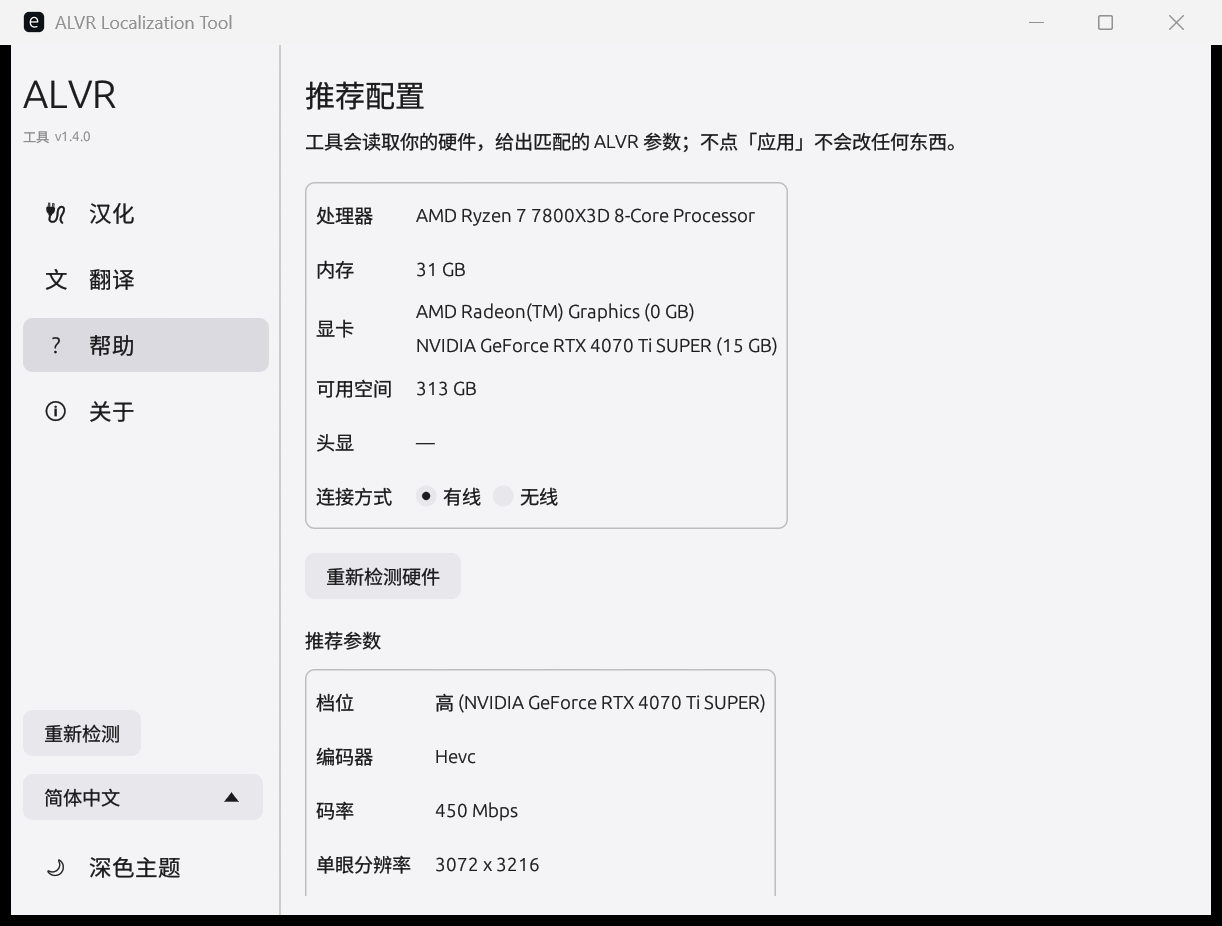
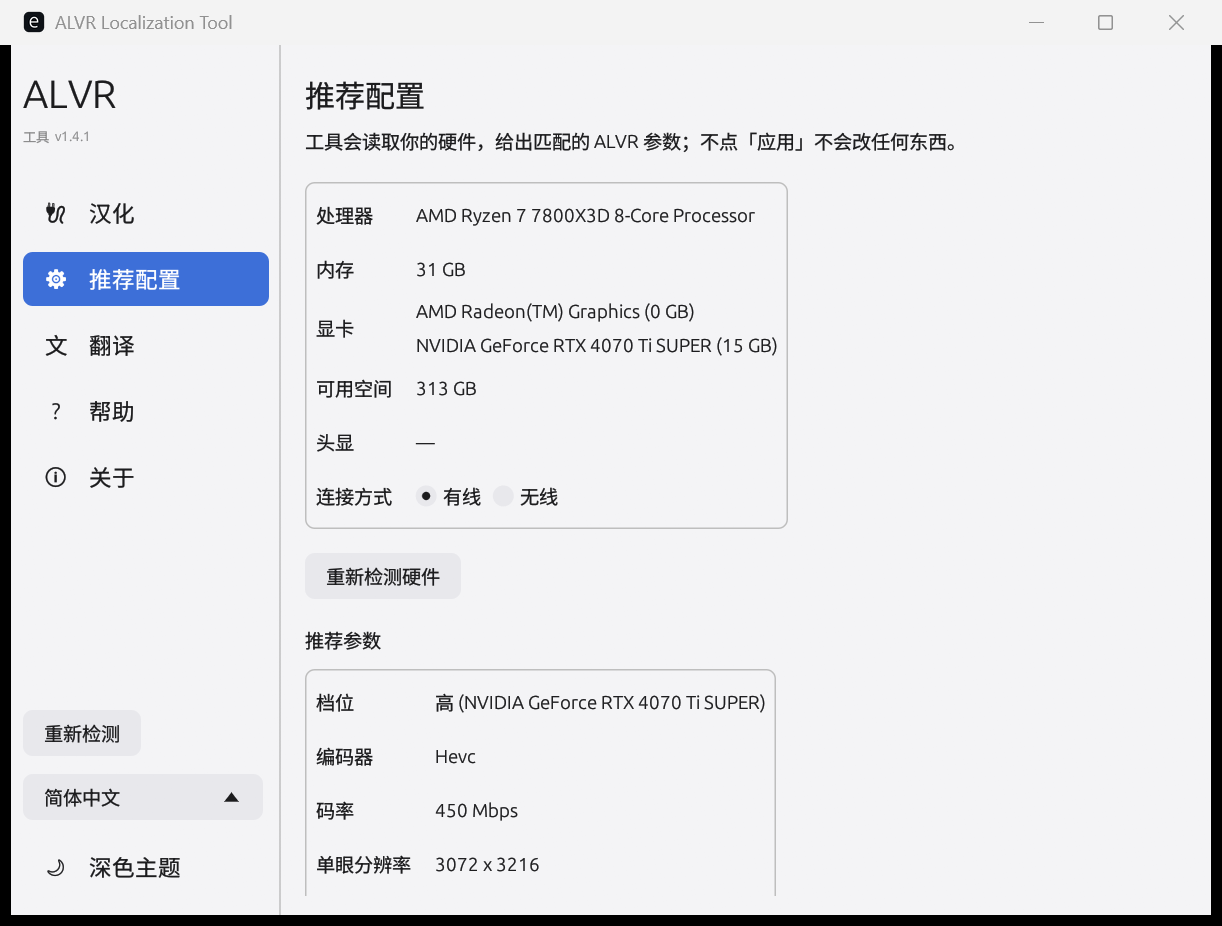
fix: add the Quick setup entry to the sidebar

Changed region(s): [[0.0, 0.2721, 0.2177, 0.4536], [0.0622, 0.514, 0.0933, 0.5443]]

diff --git a/src/main.rs b/src/main.rs
@@ -2282,6 +2282,9 @@ impl eframe::App for App {
                 ) {
                     self.page = Page::Localize;
                 }
+                if nav_row(ui, "⚙", self.t("nav_setup"), self.page == Page::Setup) {
+                    self.page = Page::Setup;
+                }
                 if nav_row(
                     ui,
                     "文",
